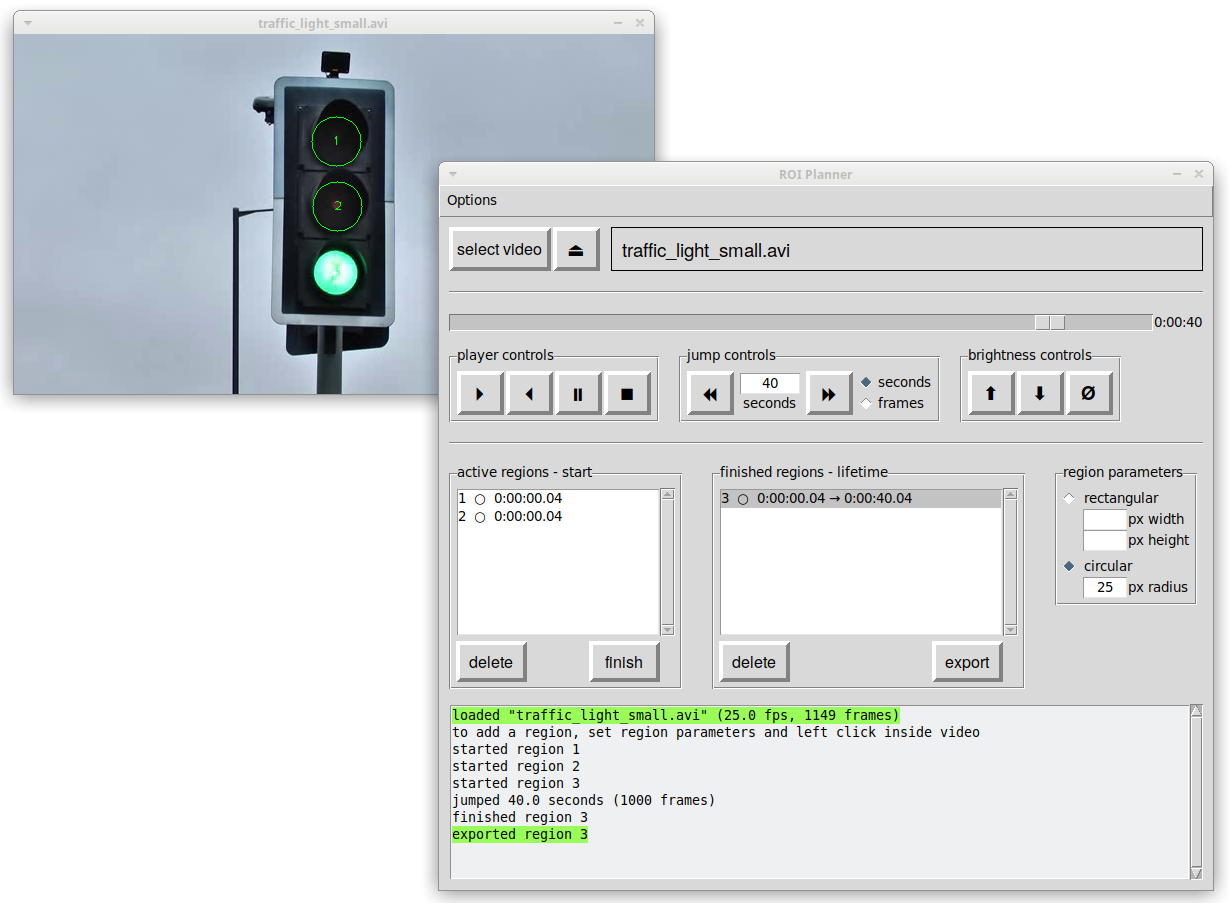
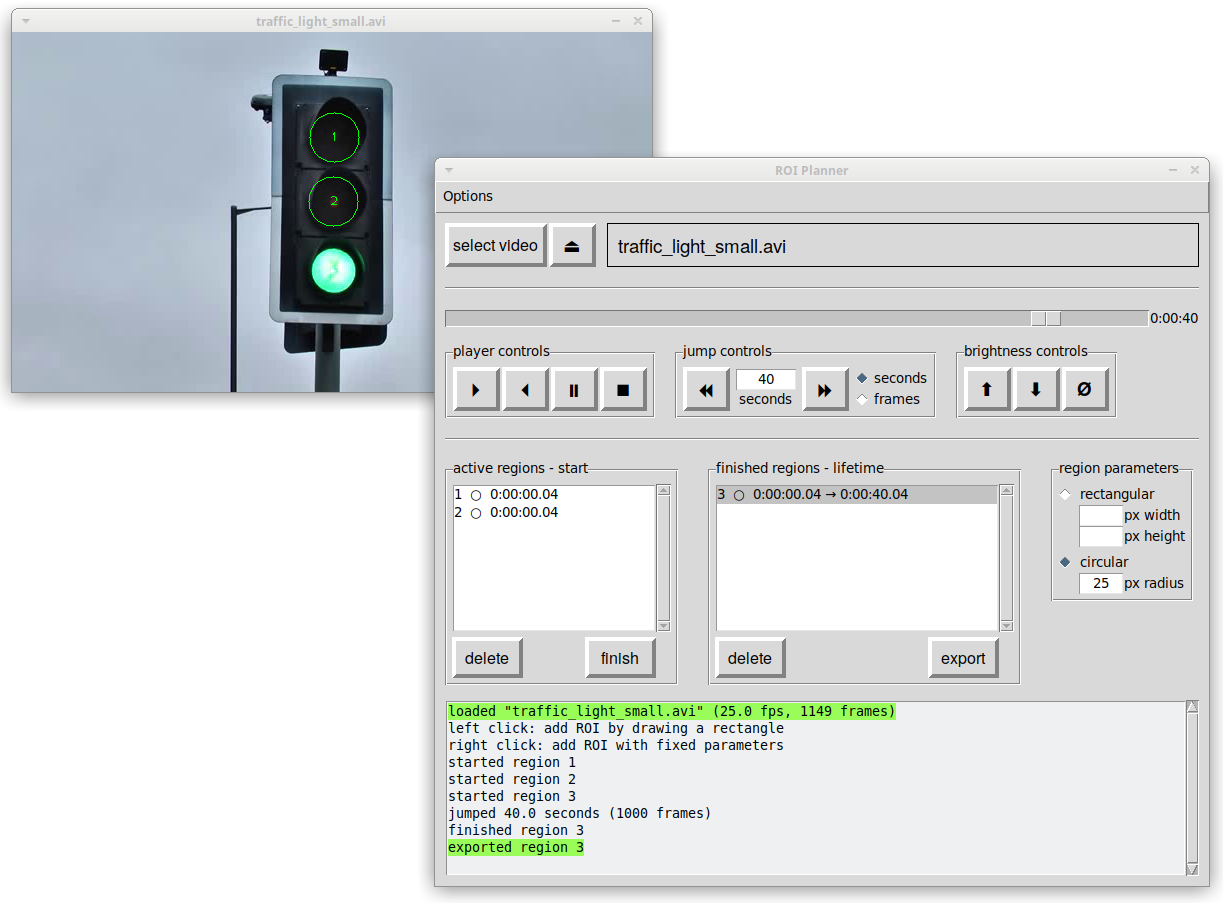
updated README

diff --git a/README.md b/README.md
@@ -139,4 +139,6 @@ If the collected data needs to be exported, implementing a `to_file` method is s
 
 Planning the exact location and lifespan of regions of interest can be tedious without visual assistance. This software comes with a graphical user interface for the planning process. A screenshot is shown below.
 
+ROIs can be added by selecting a rectangular region with the left mouse button. Alternatively, ROIs with fixed parameters (width and height or radius) are added with a right click inside the video.
+
 ![GUI](docs/gui.png)
